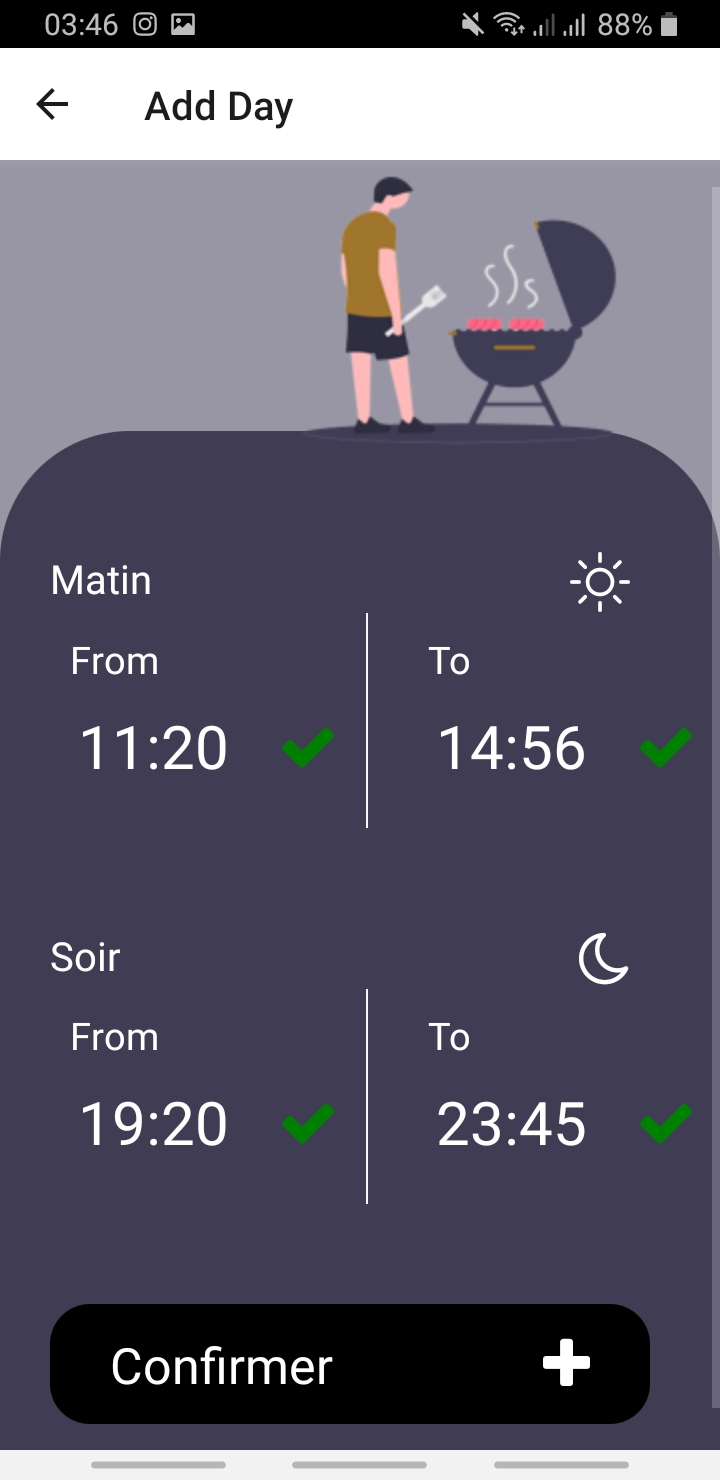
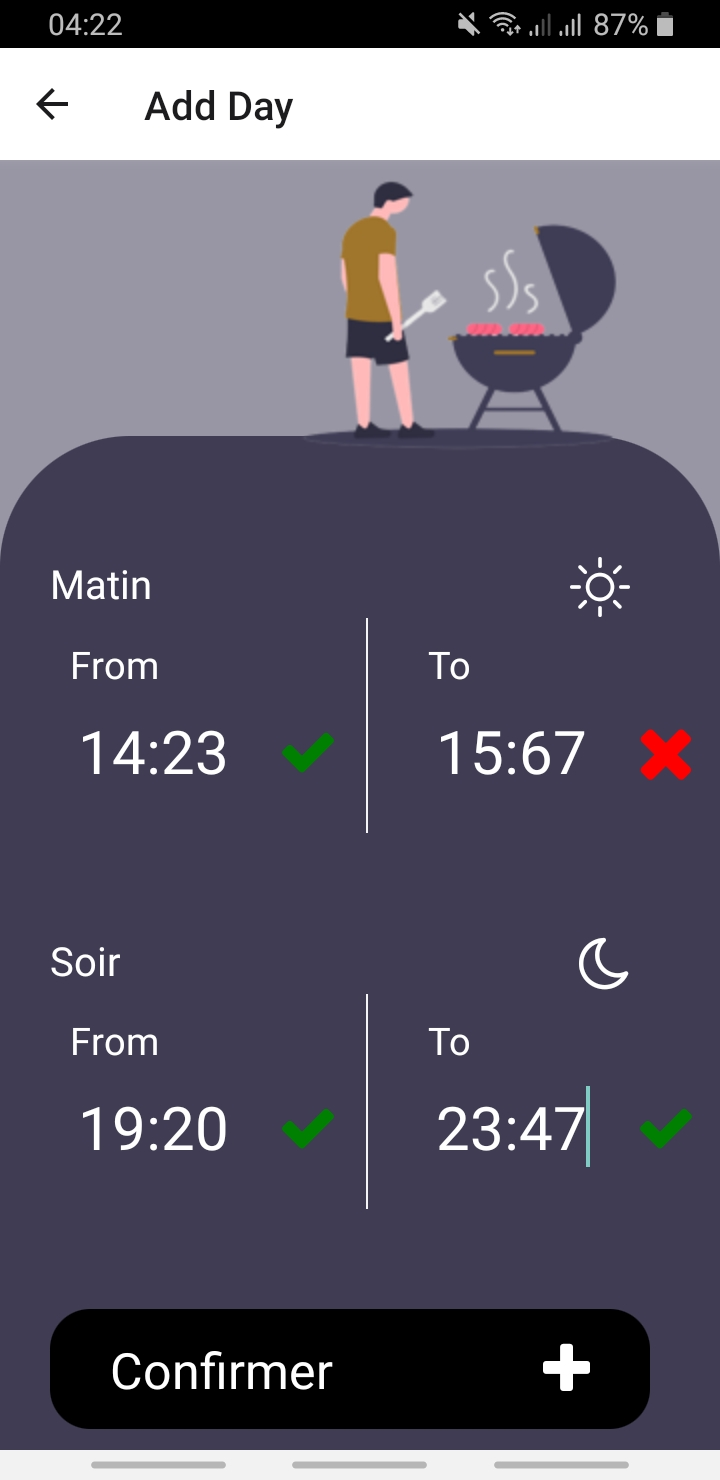
nouvelle image

diff --git a/README.md b/README.md
@@ -23,7 +23,8 @@ images de l'application
 ### Remarques
 * Premier projet en **React Native**.
 * Projet n'est pas encore fini, il manque des fonctionalitées a rajouter et des bugs a régler.
- 
+ * Quand on écrit une nouvelle et il y'a une croix **X** ceci veut dire que le format est incorrect et si ce n'est pas corrigé la saisie de cette heure n'est pas sauvegarder pour assurer le bon fonctioonement de l'application.
+  
 ## Notes personnelles:
 * Faut mettre à jour les icones pour ios.
 
